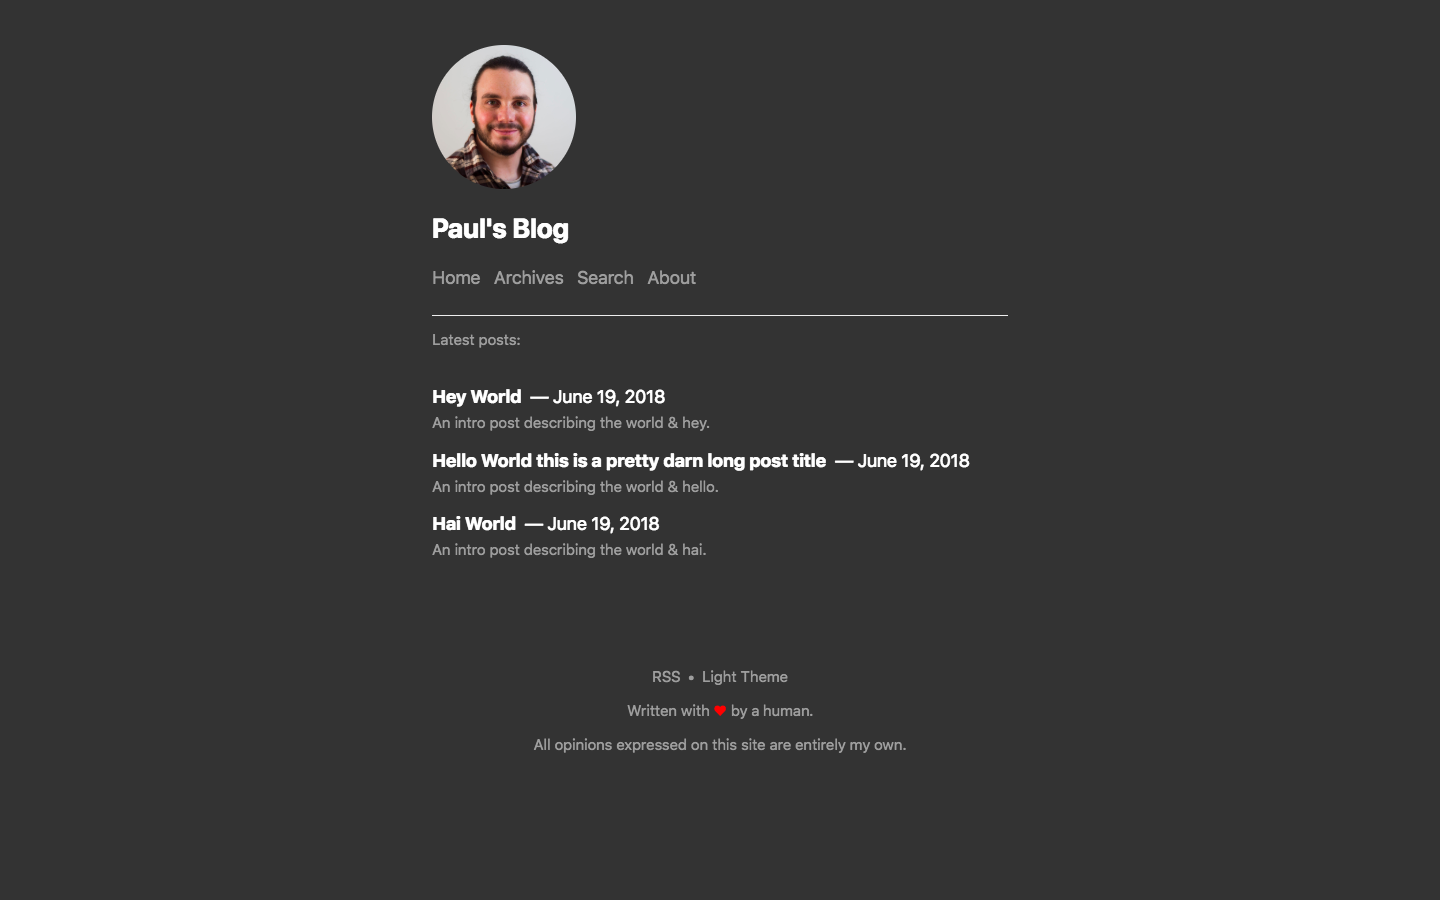
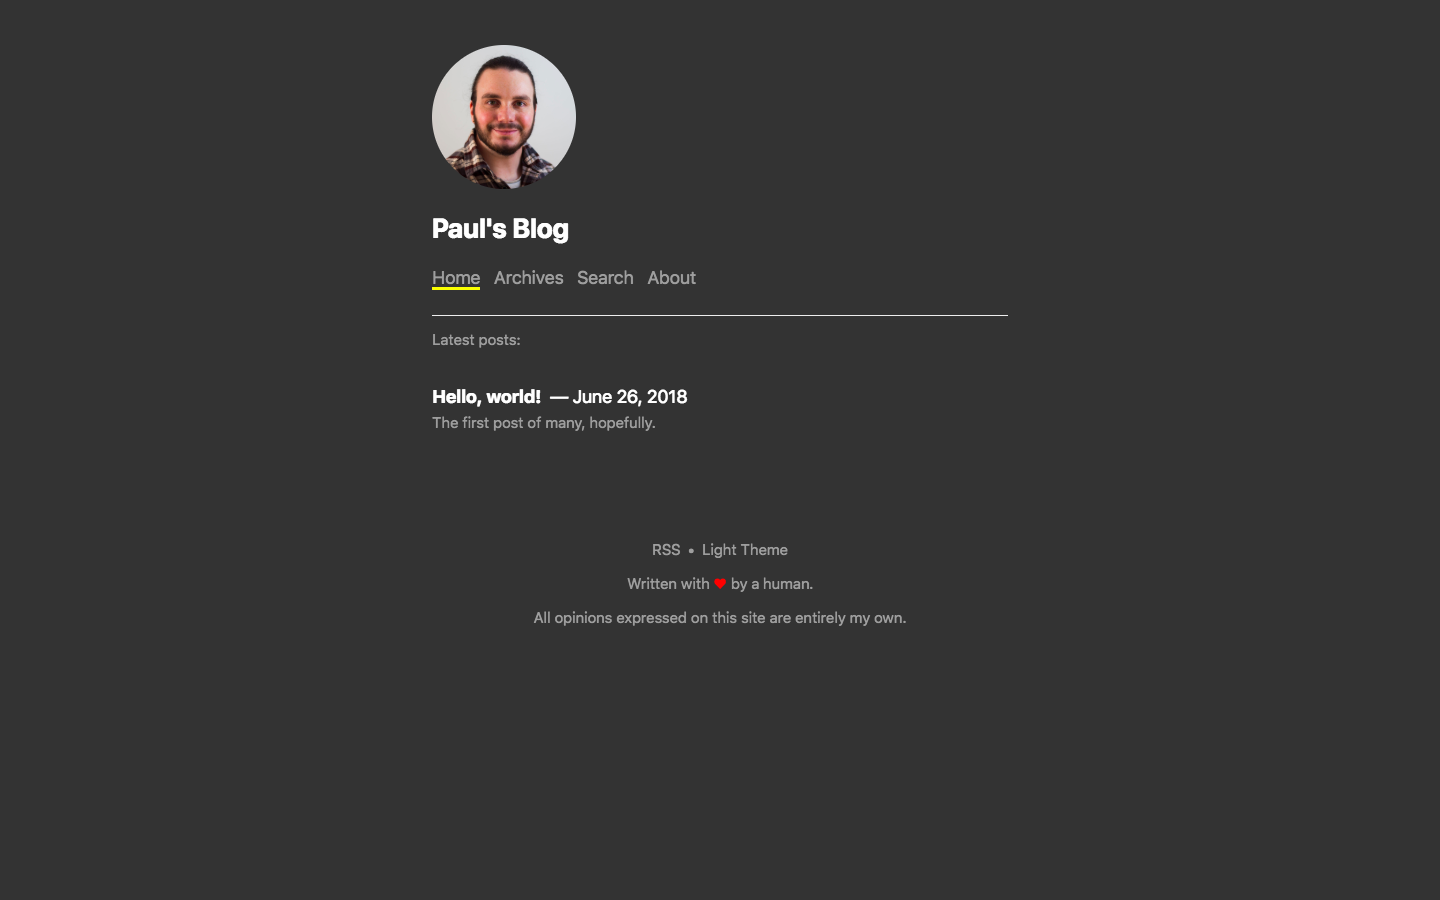
Update docs with licensing and screenies

Changed region(s): [[0.2812, 0.4356, 0.6875, 0.6533], [0.375, 0.7467, 0.625, 0.84], [0.375, 0.6844, 0.625, 0.7156]]

diff --git a/README.md b/README.md
@@ -1,11 +1,13 @@
 # [Blot][blot] Theme: Jot
 
-This is my [personal theme][blog] for [Blot][blot]. It's a fork of the Index theme.
+This is my [personal theme][blog] for [Blot][blot]. It's a fork of the Index
+theme.
 
 ## Features
 
 - Light and dark theme(!!)
 - Hash `id`s for each header
+- `is-active` class for active menu links
 - Normalized styling across browsers (removes horizontal scrollbar)
 
 ## Screenshots
@@ -18,6 +20,16 @@ This is my [personal theme][blog] for [Blot][blot]. It's a fork of the Index the
 
 ![Post Dark](.github/post-dark.png)
 
+## License
 
-[blog]: http://pinjasaur.blot.im
+[Blot][blot], including the base Index theme, is licensed by
+[David Merfield][david] under [CC0][cc0].
+
+Modifications by myself, [Paul Esch-Laurent][me], are licensed under [MIT][mit].
+
+[blog]: https://paul.af
 [blot]: https://blot.im
+[cc0]: https://github.com/davidmerfield/Blot/blob/master/LICENSE
+[david]: https://github.com/davidmerfield
+[me]: https://github.com/Pinjasaur
+[mit]: https://pinjasaur.mit-license.org
